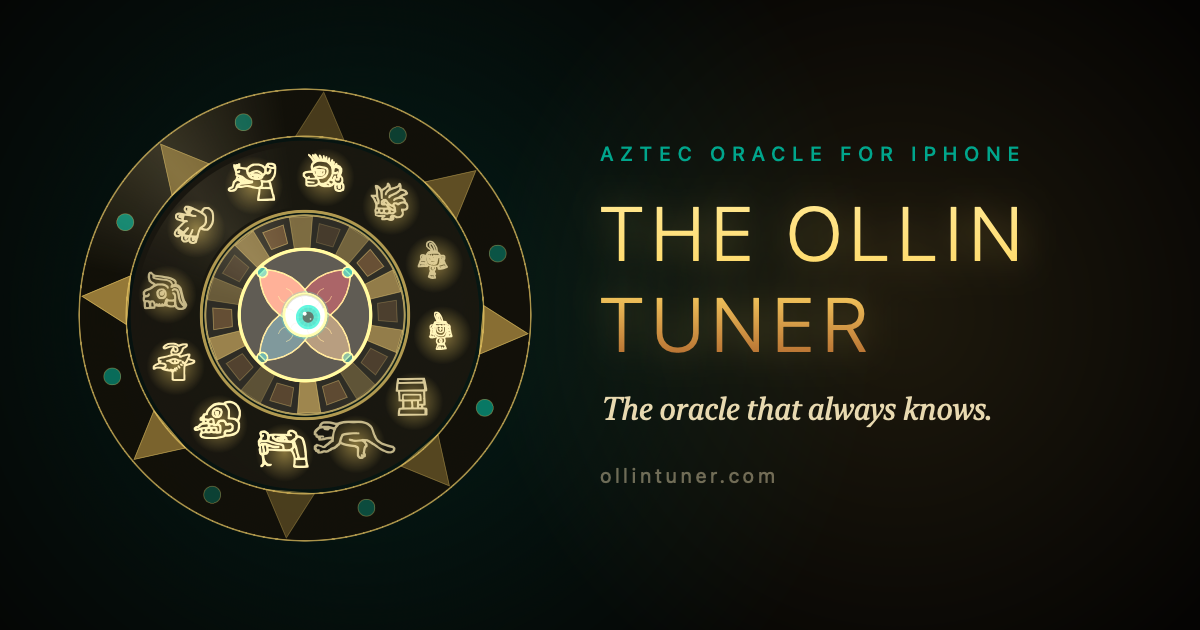
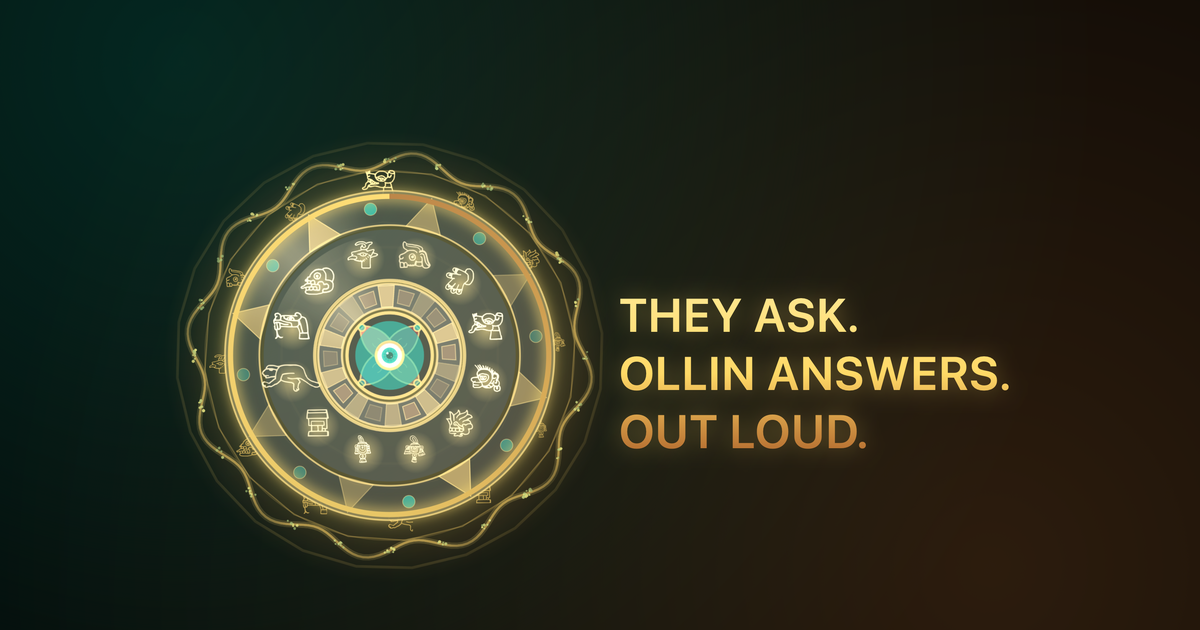
Rename to Ollin: Talking Oracle Trick; new hero and share image; drop kicker lines

diff --git a/index.html b/index.html
@@ -11,21 +11,21 @@
       gtag('config', 'G-Z48K07Y14B');
     </script>
     <meta name="viewport" content="width=device-width, initial-scale=1.0, viewport-fit=cover">
-    <title>The Ollin Tuner — Aztec Oracle for iPhone</title>
-    <meta name="description" content="Ask a question. Press and hold the dial. Receive a transmission from the Fifth Sun. The Ollin Tuner is an Aztec oracle for iPhone.">
+    <title>Ollin: Talking Oracle Trick for iPhone</title>
+    <meta name="description" content="A friend asks a question out loud, the dial turns, and Ollin speaks the answer in a deep voice. Only you know why it always gets it right. A talking oracle party trick for iPhone.">
     <meta name="theme-color" content="#050403">
     <meta name="apple-itunes-app" content="app-id=6759269358">
 
     <meta property="og:type" content="website">
     <meta property="og:url" content="https://ollintuner.com/">
-    <meta property="og:title" content="The Ollin Tuner — Aztec Oracle for iPhone">
-    <meta property="og:description" content="Ask a question. Press and hold the dial. Receive a transmission from the Fifth Sun.">
-    <meta property="og:image" content="https://ollintuner.com/og-image.png">
+    <meta property="og:title" content="Ollin: Talking Oracle Trick for iPhone">
+    <meta property="og:description" content="They ask. Ollin answers. Out loud. Only you know why it always gets it right.">
+    <meta property="og:image" content="https://ollintuner.com/og-image.png?v=13">
     <meta property="og:image:width" content="1200">
     <meta property="og:image:height" content="630">
-    <meta property="og:image:alt" content="The Ollin Tuner — the oracle that always knows">
+    <meta property="og:image:alt" content="Ollin: Talking Oracle Trick. They ask. Ollin answers. Out loud.">
     <meta name="twitter:card" content="summary_large_image">
-    <meta name="twitter:image" content="https://ollintuner.com/og-image.png">
+    <meta name="twitter:image" content="https://ollintuner.com/og-image.png?v=13">
     <link rel="canonical" href="https://ollintuner.com/">
 
     <link rel="icon" type="image/png" href="favicon.png">
@@ -39,7 +39,8 @@
     {
         "@context": "https://schema.org",
         "@type": "SoftwareApplication",
-        "name": "The Ollin Tuner",
+        "name": "Ollin: Talking Oracle Trick",
+        "alternateName": "The Ollin Tuner",
         "operatingSystem": "iOS",
         "applicationCategory": "EntertainmentApplication",
         "url": "https://ollintuner.com/",
@@ -75,9 +76,8 @@
         <section class="hero">
             <div class="container hero-grid">
                 <div class="hero-copy">
-                    <p class="kicker">Aztec Oracle for iPhone</p>
-                    <h1 class="display">Calibrate the<br>Ancient Frequency</h1>
-                    <p class="tagline">Ask a question. Press and hold the dial. Receive a transmission from the heart of the Fifth Sun. How does it know? That&rsquo;s between you and Ollin.</p>
+                    <h1 class="display">The Talking<br>Oracle Trick</h1>
+                    <p class="tagline">A friend asks a question out loud. They press and hold the dial, and Ollin speaks the answer in a deep voice. How does it know? That&rsquo;s between you and Ollin.</p>
                     <div class="hero-actions">
                         <a href="https://apps.apple.com/us/app/the-ollin-tuner/id6759269358" class="btn btn-primary">Download on the App Store</a>
                     </div>
@@ -115,7 +115,6 @@
         <!-- What is Ollin -->
         <section id="ollin" class="reveal">
             <div class="container narrow">
-                <p class="kicker">The origin</p>
                 <h2 class="section-title">What is Ollin</h2>
                 <blockquote class="lore-quote">&ldquo;Ollin is the day sign of Movement &mdash; the force that set the Fifth Sun into motion.&rdquo;</blockquote>
                 <div class="lore">
@@ -130,7 +129,6 @@
         <!-- The Ritual -->
         <section id="ritual" class="reveal">
             <div class="container">
-                <p class="kicker center">How it works</p>
                 <h2 class="section-title center">The Ritual</h2>
 
                 <ol class="steps">
@@ -169,7 +167,6 @@
         <!-- Features -->
         <section id="features" class="reveal">
             <div class="container">
-                <p class="kicker center">What lies within</p>
                 <h2 class="section-title center">Features</h2>
 
                 <div class="features-grid">
@@ -213,7 +210,6 @@
         <section id="secret" class="reveal">
             <div class="container narrow">
                 <div class="tablet">
-                    <p class="kicker center">There is more</p>
                     <h2 class="section-title center">A Secret Within</h2>
                     <p class="tablet-text">Not every transmission comes from the cosmos. The Ollin Tuner holds a hidden layer &mdash; a secret known only to the one who holds the phone. Those who discover it gain the power to leave their friends stunned, speechless, and completely unable to explain what just happened.</p>
                     <p class="tablet-hint">The app will teach you. Pay attention during the tutorial.</p>
@@ -224,7 +220,6 @@
         <!-- Tutorial screens -->
         <section id="screenshots" class="reveal">
             <div class="container">
-                <p class="kicker center">The initiation</p>
                 <h2 class="section-title center">Learn the Ways</h2>
                 <div class="shots">
                     <img src="tutorial-theollintuner.png?v=12" width="660" height="1434" alt="Tutorial: The Ollin Tuner introduction" loading="lazy">
@@ -239,7 +234,6 @@
         <!-- Pricing -->
         <section id="pricing" class="reveal">
             <div class="container">
-                <p class="kicker center">Calibration tiers</p>
                 <h2 class="section-title center">Pricing</h2>
 
                 <div class="pricing-grid">
@@ -282,7 +276,6 @@
         <!-- Final CTA -->
         <section id="download" class="final-cta reveal">
             <div class="container narrow center">
-                <p class="kicker center">The frequency awaits</p>
                 <h2 class="display display-small">Hold the Dial</h2>
                 <p class="final-text">Available now on the App Store. Free to use. No account needed.</p>
                 <a href="https://apps.apple.com/us/app/the-ollin-tuner/id6759269358" class="btn btn-primary">Download on the App Store</a>
@@ -301,7 +294,7 @@
                 <a href="mailto:contact@ollintuner.com">Contact</a>
             </div>
             <a href="https://joelint.com" class="footer-maker" aria-label="Joe Lint"><img src="images/joe-lint-signature.svg" alt="Joe Lint" width="78" height="29"></a>
-            <p class="copyright">&copy; <!--pc:year-->2026<!--/pc:year--> The Ollin Tuner. For entertainment purposes only.</p>
+            <p class="copyright">&copy; <!--pc:year-->2026<!--/pc:year--> Ollin: Talking Oracle Trick. For entertainment purposes only.</p>
             <p class="credit">Day-sign glyphs from the &ldquo;Aztec&rdquo; typeface by Levi Halmos.</p>
             <p class="sign-off">The frequency responds.</p>
         </div>

diff --git a/terms.html b/terms.html
@@ -11,12 +11,12 @@
       gtag('config', 'G-Z48K07Y14B');
     </script>
     <meta name="viewport" content="width=device-width, initial-scale=1.0, viewport-fit=cover">
-    <title>Terms of Use — The Ollin Tuner</title>
+    <title>Terms of Use — Ollin: Talking Oracle Trick</title>
     <meta name="description" content="Terms of Use for the Ollin Tuner iOS app.">
     <meta name="theme-color" content="#050403">
     <meta property="og:type" content="website">
     <meta property="og:url" content="https://ollintuner.com/terms.html">
-    <meta property="og:title" content="Terms of Use — The Ollin Tuner">
+    <meta property="og:title" content="Terms of Use — Ollin: Talking Oracle Trick">
     <meta property="og:image" content="https://ollintuner.com/og-image.png">
     <meta property="og:image:width" content="1200">
     <meta property="og:image:height" content="630">
@@ -60,7 +60,7 @@
             <div class="page-content">
 
 
-                <p>Welcome to Ollin Tuner. The Ollin Tuner application ("the App") is developed and operated by <!--pc:operator-->The Peninsular Company, LLC, a Michigan limited liability company based in Detroit<!--/pc:operator--> ("we", "us", "our"). By downloading, installing, or using the App, you agree to be bound by these Terms of Use ("Terms"), which are an agreement between you and <!--pc:name-->The Peninsular Company, LLC<!--/pc:name-->. If you do not agree to these Terms, do not use the App.</p>
+                <p>Welcome to Ollin. The Ollin: Talking Oracle Trick application, also known as The Ollin Tuner ("the App"), is developed and operated by <!--pc:operator-->The Peninsular Company, LLC, a Michigan limited liability company based in Detroit<!--/pc:operator--> ("we", "us", "our"). By downloading, installing, or using the App, you agree to be bound by these Terms of Use ("Terms"), which are an agreement between you and <!--pc:name-->The Peninsular Company, LLC<!--/pc:name-->. If you do not agree to these Terms, do not use the App.</p>
 
                 <h2>1. Entertainment Disclaimer</h2>
                 <p>Ollin Tuner is an entertainment application. All readings, transmissions, and responses generated by the App are created by artificial intelligence for entertainment purposes only.</p>
@@ -163,7 +163,7 @@
                 <a href="mailto:contact@ollintuner.com">Contact</a>
             </div>
             <a href="https://joelint.com" class="footer-maker" aria-label="Joe Lint"><img src="images/joe-lint-signature.svg" alt="Joe Lint" width="78" height="29"></a>
-            <p class="copyright">&copy; <!--pc:year-->2026<!--/pc:year--> The Ollin Tuner. For entertainment purposes only.</p>
+            <p class="copyright">&copy; <!--pc:year-->2026<!--/pc:year--> Ollin: Talking Oracle Trick. For entertainment purposes only.</p>
         </div>
     </footer>
 

diff --git a/privacy.html b/privacy.html
@@ -11,12 +11,12 @@
       gtag('config', 'G-Z48K07Y14B');
     </script>
     <meta name="viewport" content="width=device-width, initial-scale=1.0, viewport-fit=cover">
-    <title>Privacy Policy — The Ollin Tuner</title>
+    <title>Privacy Policy — Ollin: Talking Oracle Trick</title>
     <meta name="description" content="How the Ollin Tuner iOS app handles your data.">
     <meta name="theme-color" content="#050403">
     <meta property="og:type" content="website">
     <meta property="og:url" content="https://ollintuner.com/privacy.html">
-    <meta property="og:title" content="Privacy Policy — The Ollin Tuner">
+    <meta property="og:title" content="Privacy Policy — Ollin: Talking Oracle Trick">
     <meta property="og:image" content="https://ollintuner.com/og-image.png">
     <meta property="og:image:width" content="1200">
     <meta property="og:image:height" content="630">
@@ -59,7 +59,7 @@
         <div class="container">
             <div class="page-content">
 
-                <p>The Ollin Tuner (&ldquo;the App&rdquo;) is developed and operated by <!--pc:operator-->The Peninsular Company, LLC, a Michigan limited liability company based in Detroit<!--/pc:operator--> (&ldquo;we&rdquo;, &ldquo;us&rdquo;, &ldquo;our&rdquo;). This policy explains what data the App handles, who it is shared with, and the choices you have. It describes version 1.2 and later; differences in earlier versions are noted where they apply.</p>
+                <p>Ollin: Talking Oracle Trick, also known as The Ollin Tuner (&ldquo;the App&rdquo;), is developed and operated by <!--pc:operator-->The Peninsular Company, LLC, a Michigan limited liability company based in Detroit<!--/pc:operator--> (&ldquo;we&rdquo;, &ldquo;us&rdquo;, &ldquo;our&rdquo;). This policy explains what data the App handles, who it is shared with, and the choices you have. It describes version 1.2 and later; differences in earlier versions are noted where they apply.</p>
 
                 <h2>The Short Version</h2>
                 <ul>
@@ -157,7 +157,7 @@
                 <a href="mailto:contact@ollintuner.com">Contact</a>
             </div>
             <a href="https://joelint.com" class="footer-maker" aria-label="Joe Lint"><img src="images/joe-lint-signature.svg" alt="Joe Lint" width="78" height="29"></a>
-            <p class="copyright">&copy; <!--pc:year-->2026<!--/pc:year--> The Ollin Tuner. For entertainment purposes only.</p>
+            <p class="copyright">&copy; <!--pc:year-->2026<!--/pc:year--> Ollin: Talking Oracle Trick. For entertainment purposes only.</p>
         </div>
     </footer>
 

diff --git a/support.html b/support.html
@@ -11,12 +11,12 @@
       gtag('config', 'G-Z48K07Y14B');
     </script>
     <meta name="viewport" content="width=device-width, initial-scale=1.0, viewport-fit=cover">
-    <title>Support — The Ollin Tuner</title>
+    <title>Support — Ollin: Talking Oracle Trick</title>
     <meta name="description" content="Help and frequently asked questions for the Ollin Tuner iOS app.">
     <meta name="theme-color" content="#050403">
     <meta property="og:type" content="website">
     <meta property="og:url" content="https://ollintuner.com/support.html">
-    <meta property="og:title" content="Support — The Ollin Tuner">
+    <meta property="og:title" content="Support — Ollin: Talking Oracle Trick">
     <meta property="og:image" content="https://ollintuner.com/og-image.png">
     <meta property="og:image:width" content="1200">
     <meta property="og:image:height" content="630">
@@ -102,7 +102,7 @@
                 </div>
 
                 <div class="faq-item">
-                    <h3>Is the Ollin Tuner safe for kids?</h3>
+                    <h3>Is Ollin safe for kids?</h3>
                     <p>Yes. The App is rated 4+. Readings are positive and family-friendly, and ads are limited to content suitable for all ages.</p>
                 </div>
 
@@ -137,7 +137,7 @@
                 <a href="mailto:contact@ollintuner.com">Contact</a>
             </div>
             <a href="https://joelint.com" class="footer-maker" aria-label="Joe Lint"><img src="images/joe-lint-signature.svg" alt="Joe Lint" width="78" height="29"></a>
-            <p class="copyright">&copy; <!--pc:year-->2026<!--/pc:year--> The Ollin Tuner. For entertainment purposes only.</p>
+            <p class="copyright">&copy; <!--pc:year-->2026<!--/pc:year--> Ollin: Talking Oracle Trick. For entertainment purposes only.</p>
         </div>
     </footer>
 

diff --git a/404.html b/404.html
@@ -11,13 +11,13 @@
       gtag('config', 'G-Z48K07Y14B');
     </script>
     <meta name="viewport" content="width=device-width, initial-scale=1.0, viewport-fit=cover">
-    <title>Signal Lost — The Ollin Tuner</title>
+    <title>Signal Lost — Ollin: Talking Oracle Trick</title>
     <meta name="description" content="This page could not be found.">
     <meta name="robots" content="noindex">
     <meta name="theme-color" content="#050403">
     <meta property="og:type" content="website">
     <meta property="og:url" content="https://ollintuner.com/support.html">
-    <meta property="og:title" content="Support — The Ollin Tuner">
+    <meta property="og:title" content="Support — Ollin: Talking Oracle Trick">
     <meta property="og:image" content="https://ollintuner.com/og-image.png">
     <meta property="og:image:width" content="1200">
     <meta property="og:image:height" content="630">
@@ -77,7 +77,7 @@
                 <a href="mailto:contact@ollintuner.com">Contact</a>
             </div>
             <a href="https://joelint.com" class="footer-maker" aria-label="Joe Lint"><img src="/images/joe-lint-signature.svg" alt="Joe Lint" width="78" height="29"></a>
-            <p class="copyright">&copy; <!--pc:year-->2026<!--/pc:year--> The Ollin Tuner. For entertainment purposes only.</p>
+            <p class="copyright">&copy; <!--pc:year-->2026<!--/pc:year--> Ollin: Talking Oracle Trick. For entertainment purposes only.</p>
         </div>
     </footer>
 
